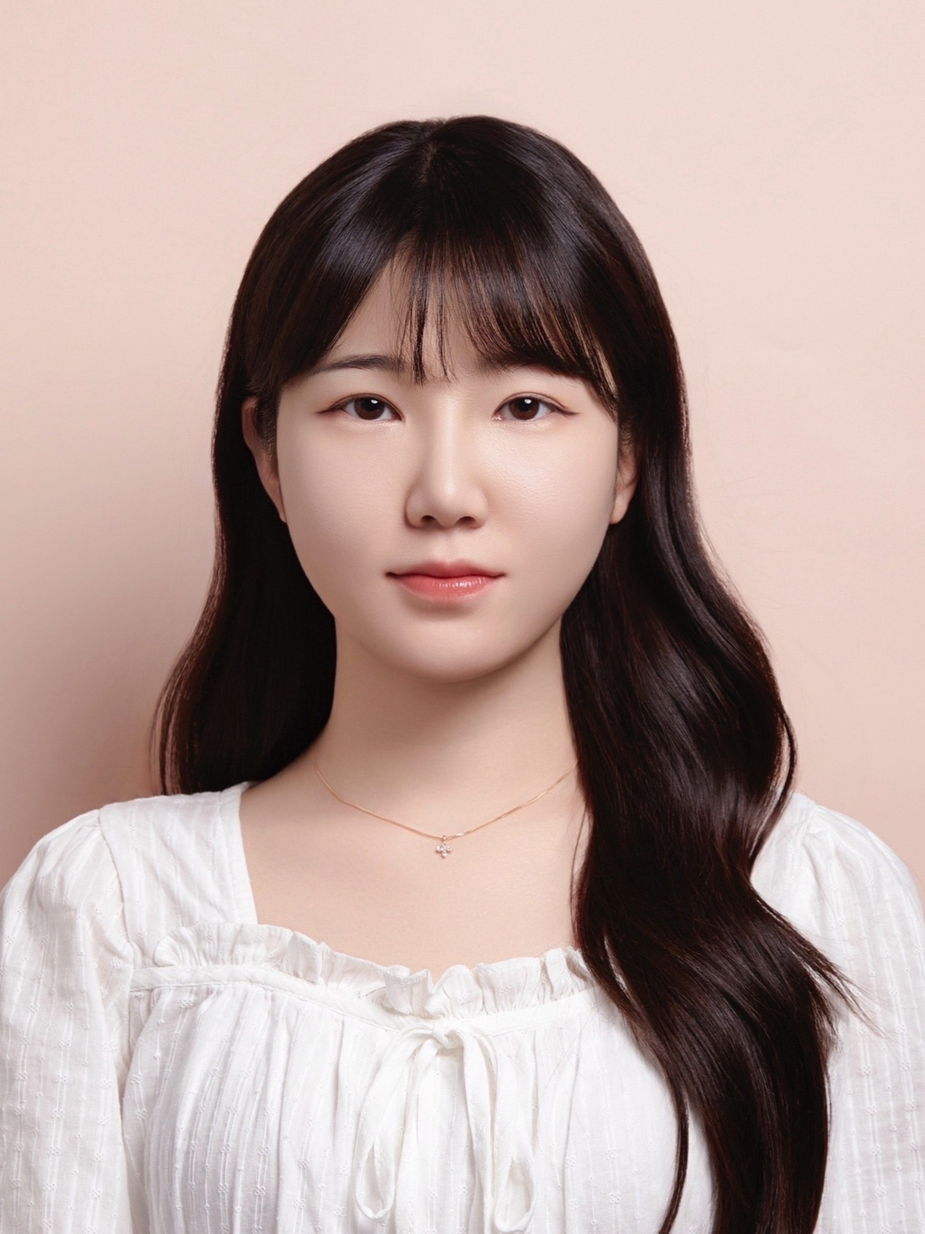
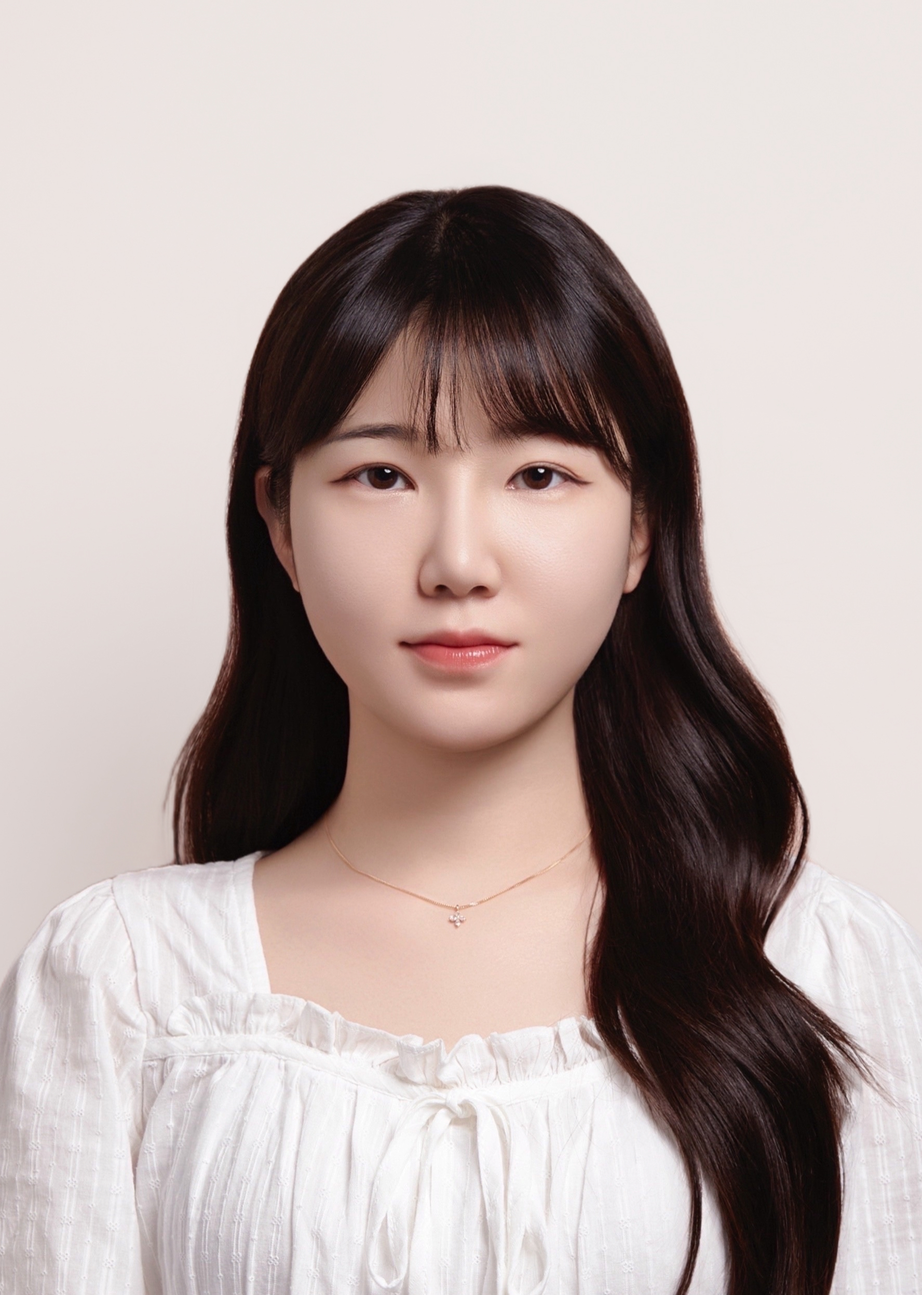
프로필 레이아웃 수정2

diff --git a/index.html b/index.html
@@ -7,10 +7,20 @@
 
     <link
       rel="stylesheet"
-      href="https://cdnjs.cloudflare.com/ajax/libs/font-awesome/6.0.0-beta3/css/all.min.css" />
+      href="https://cdnjs.cloudflare.com/ajax/libs/font-awesome/6.0.0-beta3/css/all.min.css"
+    />
     <link
       href="https://fonts.googleapis.com/css2?family=Noto+Sans+KR:wght@100..900&display=swap"
-      rel="stylesheet" />
+      rel="stylesheet"
+    />
+    <link
+      rel="stylesheet"
+      href="https://cdnjs.cloudflare.com/ajax/libs/font-awesome/6.4.2/css/all.min.css"
+      integrity="sha512-z3gLpd7yknf1YoNbCzqRKc4qyor8gaKU1qmn+CShxbuBusANI9QpRohGBreCFkKxLhei6S9CQXFEbbKuqLg0DA=="
+      crossorigin="anonymous"
+      referrerpolicy="no-referrer"
+    />
+
     <link rel="stylesheet" href="./common.css" />
     <link rel="stylesheet" href="./css/style.css" />
     <link rel="stylesheet" href="./css/jquery.fullPage.min.css" />
@@ -76,13 +86,15 @@
               <div class="search-bar">
                 <input
                   type="text"
-                  placeholder="채팅방 검색 (이름 또는 채팅방 검색)" />
+                  placeholder="채팅방 검색 (이름 또는 채팅방 검색)"
+                />
                 <i class="fa-solid fa-magnifying-glass"></i>
               </div>
               <div class="chat-list">
                 <div
                   class="chat-item"
-                  onclick="openChat(this, '심현정님 포트폴리오 소개방')">
+                  onclick="openChat(this, '심현정님 포트폴리오 소개방')"
+                >
                   <div class="profile-img">
                     <img src="./images/profile1.png" alt="프로필" />
                   </div>
@@ -211,9 +223,8 @@
               <div class="profileRight">
                 <div class="profileTop">
                   <span>반갑습니다!</span>
-                  <strong> 작은 불편도 놓치지 않는</strong>
-                  <br />
-                  <span>웹 퍼블리셔 & 프론트엔드 개발자,</span>
+                  <!-- <strong> 작은 불편도 놓치지 않는</strong><br /> -->
+                  <strong>웹 퍼블리셔 & 프론트엔드 개발자,</strong>
                   <br />
                   <strong class="bigger">심현정</strong>
                   <span class="bigger">입니다.</span>
@@ -222,7 +233,13 @@
                 <dl class="techStack">
                   <dt>TECH STACK</dt>
                   <dd>
+                    HTML5 / CSS3 / JavaScript / Typescript / jQuery / Bootstrap
+                    / Saas / 비동기처리 (AJAX, JSON) / php / Mysql / React /
+                    Firebase / Git / Github / Figma / Adobe Photoshop / Adobe
+                    Illustrator / Adobe Premiere Pro / Microsoft Powerpoint /
+                    Microsoft Word
                     <ul>
+                      <li><img src="./images/vscode.png" alt="" /></li>
                       <li><img src="./images/html5.png" alt="" /></li>
                       <li><img src="./images/css3.png" alt="" /></li>
                       <li><img src="./images/js.png" alt="" /></li>
@@ -232,13 +249,9 @@
                       <li><img src="./images/ajax.png" alt="" /></li>
                       <li><img src="./images/json.png" alt="" /></li>
                       <li><img src="./images/php.svg" alt="" /></li>
-                    </ul>
-                    <ul>
-                      <li><img src="./images/mysql.png" alt="" /></li>
-                      <li><img src="./images/typescript.png" alt="" /></li>
                       <li><img src="./images/bootstrap.png" alt="" /></li>
+                      <li><img src="./images/sass.png" alt="" /></li>
                       <li><img src="./images/github.png" alt="" /></li>
-                      <li><img src="./images/vscode.png" alt="" /></li>
                       <li><img src="./images/figma.png" alt="" /></li>
                       <li><img src="./images/photoshop.png" alt="" /></li>
                       <li><img src="./images/illur.png" alt="" /></li>
@@ -246,28 +259,29 @@
                     </ul>
                   </dd>
                 </dl>
+                <div class="profileInfoWrap">
+                  <div class="profileInfo">
+                    <dl>
+                      <dt>🎂 생년월일 :</dt>
+                      <dd>1998.10.28</dd>
+                    </dl>
+                    <dl>
+                      <dt>📝 지원분야 :</dt>
+                      <dd>웹 퍼블리셔 & 프론트엔드</dd>
+                    </dl>
+                  </div>
 
-                <div class="profileInfo">
-                  <dl>
-                    <dt>생년월일 :</dt>
-                    <dd>1998.10.28</dd>
-                  </dl>
+                  <div class="profileInfo">
+                    <dl>
+                      <dt>📧 이메일 :</dt>
+                      <dd>hj3296000@naver.com</dd>
+                    </dl>
 
-                  <dl>
-                    <dt>이메일 :</dt>
-                    <dd>hj3296000@naver.com</dd>
-                  </dl>
-                </div>
-
-                <div class="profileInfo">
-                  <dl>
-                    <dt>지원분야 :</dt>
-                    <dd>웹 퍼블리셔 & 프론트엔드</dd>
-                  </dl>
-                  <dl>
-                    <dt>전화번호 :</dt>
-                    <dd>010-7595-3299</dd>
-                  </dl>
+                    <dl>
+                      <dt>☎ 전화번호 :</dt>
+                      <dd>010.7595.3299</dd>
+                    </dl>
+                  </div>
                 </div>
               </div>
             </div>
@@ -320,10 +334,12 @@
                     <a
                       class="github"
                       href="https://github.com/HyeonJeongSim/PC-Project"
-                      target="_blank">
+                      target="_blank"
+                    >
                       <img
                         src="./images/github.png"
-                        alt="깃허브 바로가기 아이콘" />
+                        alt="깃허브 바로가기 아이콘"
+                      />
                       <span class="githubText">깃허브 바로가기</span>
                     </a>
                   </dt>
@@ -401,17 +417,20 @@
                     <a
                       class="site"
                       href="https://hj3296000.mycafe24.com/media"
-                      target="_blank">
+                      target="_blank"
+                    >
                       바로가기
                       <i class="fa-solid fa-arrow-up-right-from-square"></i
                     ></a>
                     <a
                       class="github"
                       href="https://github.com/HyeonJeongSim/Responsive-Project"
-                      target="_blank">
+                      target="_blank"
+                    >
                       <img
                         src="./images/github.png"
-                        alt="깃허브 바로가기 아이콘" />
+                        alt="깃허브 바로가기 아이콘"
+                      />
                       <span class="githubText">깃허브 바로가기</span>
                     </a>
                   </dt>
@@ -458,7 +477,8 @@
                     <img
                       class="qr"
                       src="./images/appleqr.svg"
-                      alt="애플 반응형 웹사이트 큐알코드" />
+                      alt="애플 반응형 웹사이트 큐알코드"
+                    />
                   </div>
                 </dl>
               </li>
@@ -487,19 +507,23 @@
                   <img
                     class="pc"
                     src="./images/모니터3.png"
-                    alt="모니터 이미지" />
+                    alt="모니터 이미지"
+                  />
                   <img
                     class="gif"
                     src="./images/korailgif.gif"
-                    alt="코레일gif" />
+                    alt="코레일gif"
+                  />
                   <img
                     class="ipad"
                     src="./images/코레일아이패드.png"
-                    alt="코레일아이패드이미지" />
+                    alt="코레일아이패드이미지"
+                  />
                   <img
                     class="mobile"
                     src="./images/코레일모바일.png"
-                    alt="코레일모바일이미지" />
+                    alt="코레일모바일이미지"
+                  />
                 </div>
 
                 <dl>
@@ -515,10 +539,12 @@
                     <a
                       class="github"
                       href="https://github.com/HyeonJeongSim/react-project"
-                      target="_blank">
+                      target="_blank"
+                    >
                       <img
                         src="./images/github.png"
-                        alt="깃허브 바로가기 아이콘" />
+                        alt="깃허브 바로가기 아이콘"
+                      />
                       <span class="githubText">깃허브 바로가기</span>
                     </a>
                   </dt>
@@ -561,7 +587,8 @@
                     <img
                       class="qr"
                       src="./images/korailqr.svg"
-                      alt="코레일 반응형 웹사이트 큐알코드" />
+                      alt="코레일 반응형 웹사이트 큐알코드"
+                    />
                   </div>
 
                   <!-- <dl class="github">

diff --git a/css/style.css b/css/style.css
@@ -492,24 +492,24 @@ section:nth-child(6) {background: #d0d5ff;} */
   margin: 0 0 0 170px;
   border-radius: 35px;
   border-top-right-radius: 5px;
-  padding: 45px 70px;
+  padding: 30px 80px;
   display: flex;
   align-items: center;
   box-shadow: 0 2px 15px rgba(0, 0, 0, 0.2);
   justify-content: space-around;
+  gap: 90px;
 }
 .profileImage {
-  width: 100%;
 }
 .profileImage img {
-  width: 80%;
-  border-radius: 20px;
+  width: 100%;
+  border-radius: 30px;
 }
 
 .profileRight {
   display: flex;
   flex-direction: column;
-  gap: 50px;
+  gap: 30px;
   align-items: flex-start;
 }
 
@@ -517,19 +517,35 @@ section:nth-child(6) {background: #d0d5ff;} */
   width: 100%;
   text-align: left;
 }
+#section1 .profileRight .techStack dd {
+  margin-top: 10px;
+}
+#section1 .profileRight .techStack::after {
+  content: "";
+  height: 1px;
+  background: #ccc;
+  display: block;
+  width: 100%;
+  margin-top: 20px;
+}
+
 #section1 .profileRight .techStack dt {
-  font-size: 1.5rem;
+  font-size: 1rem;
   font-weight: 500;
   background: #3a76f0;
   border-radius: 50px;
   color: #fff;
   width: max-content;
-  padding: 10px 30px;
+  padding: 5px 20px;
 }
 
 #section1 .profileRight .techStack ul {
   display: flex;
   flex-direction: row;
+  margin: 10px 0;
+  width: 100%;
+  justify-content: space-between;
+  gap: 10px;
 }
 #section1 .profileRight .techStack ul li {
   background: transparent;
@@ -538,16 +554,26 @@ section:nth-child(6) {background: #d0d5ff;} */
   color: transparent;
   font-size: 0;
   box-shadow: 0 0 0 0;
-  width: 100%;
+  width: 10%;
 }
 #section1 .profileRight .techStack ul li img {
   border-radius: 0;
   background: transparent;
   border: 0;
+  width: 100%;
 }
 
 .profileTop {
   text-align: left;
+  width: 100%;
+}
+.profileTop::after {
+  content: "";
+  height: 1px;
+  background: #ccc;
+  display: block;
+  width: 100%;
+  margin-top: 20px;
 }
 
 .profileTop span {
@@ -561,17 +587,25 @@ section:nth-child(6) {background: #d0d5ff;} */
 }
 
 .profileTop .bigger {
-  font-size: 2.8rem;
+  font-size: 3rem;
 }
 
+#section1 .profileInfoWrap {
+  display: flex;
+  gap: 50px;
+}
 #section1 .profileInfo {
   display: flex;
-  gap: 30px;
   text-align: left;
+  flex-direction: column;
+  gap: 10px;
 }
 #section1 .profileInfo dl {
   display: flex;
-  gap: 20px;
+  gap: 10px;
+  font-size: 1.1rem;
+}
+#section1 .profileInfo dl dt {
 }
 
 #section1 ul:nth-of-type(1) {
